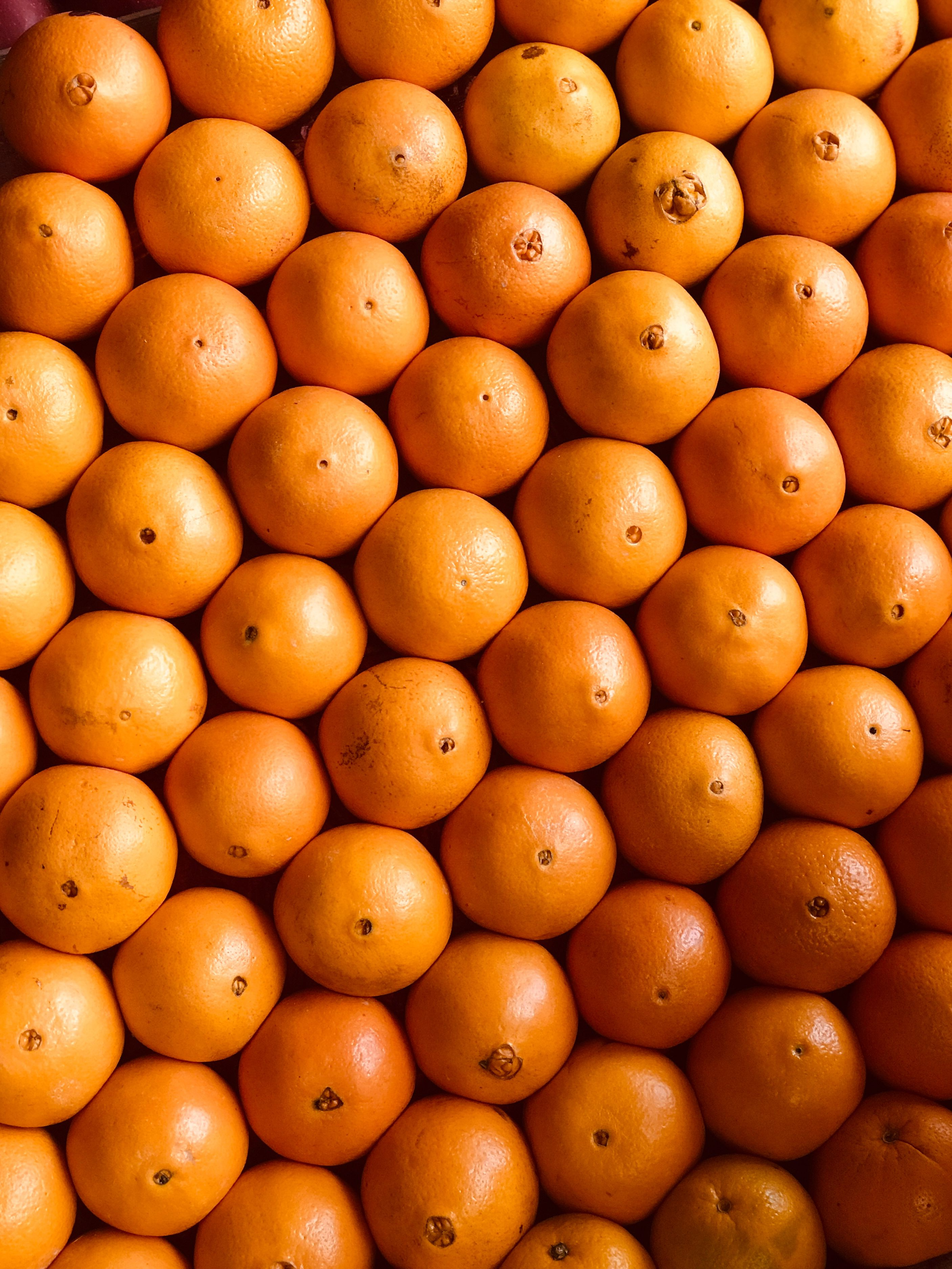
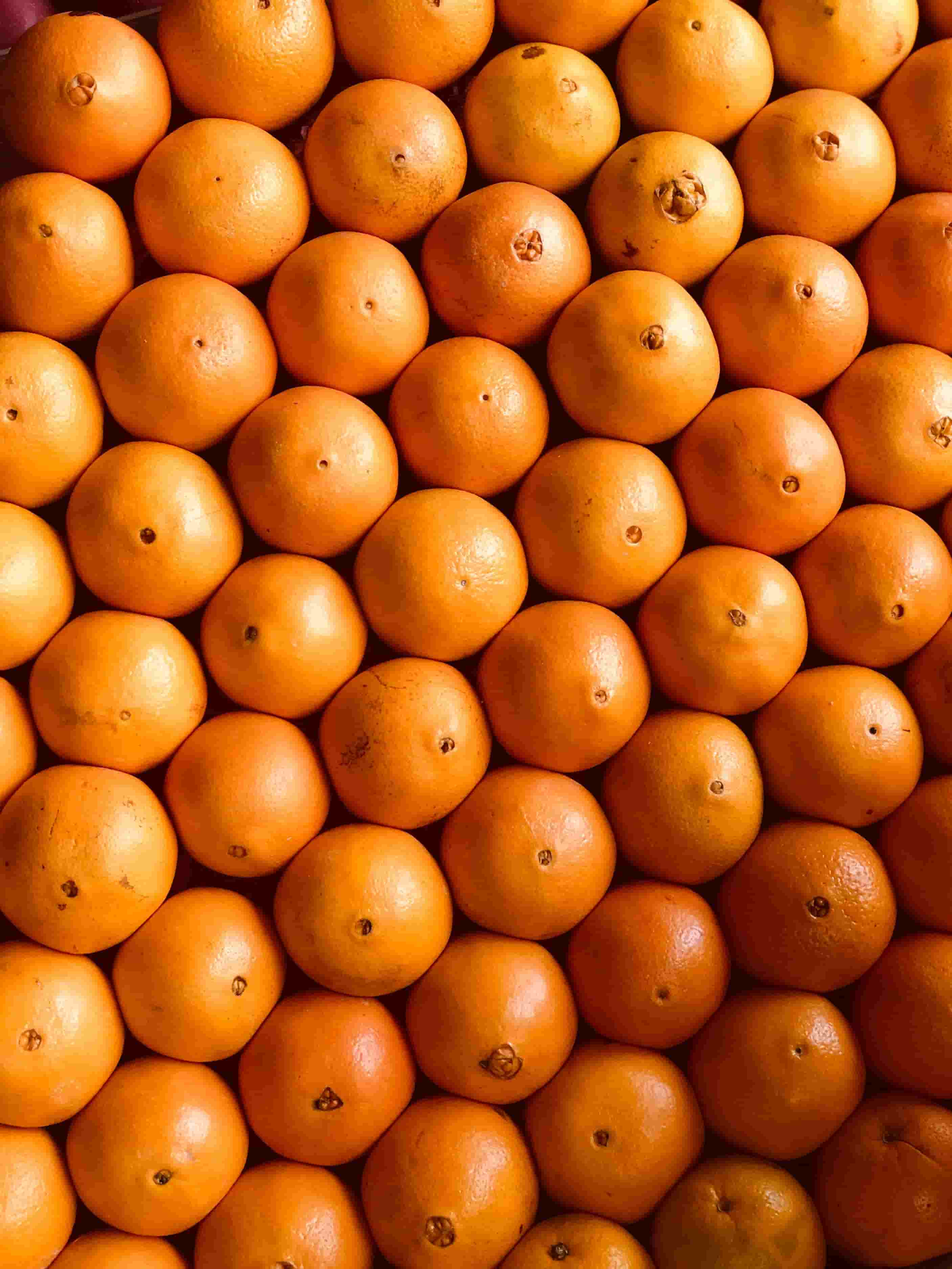
reducing images did not completely stop the slugging

Changed region(s): [[0.9893, 0.3118, 1.0, 0.343], [0.7111, 0.1247, 0.742, 0.1559], [0.2783, 0.0, 0.3092, 0.0312]]

diff --git a/src/index.js b/src/index.js
@@ -133,10 +133,10 @@ import fruits3 from './assets/fruits-3.jpg';
 
 //cards2
 import cake1 from './assets/cake-1a.jpg';
-import pouring1 from './assets/pouring-1.jpg';
-import icecream2 from './assets/icecream-2.jpg';
-import smoothies1 from './assets/smoothies-1.jpg';
-import wine1 from './assets/wine-1.jpg';
+import pouring1 from './assets/pouring-1a.jpg';
+import icecream2 from './assets/icecream-2a.jpg';
+import smoothies1 from './assets/smoothies-1a.jpg';
+import wine1 from './assets/wine-1a.jpg';
 
 
 export const cardImages1 = [
